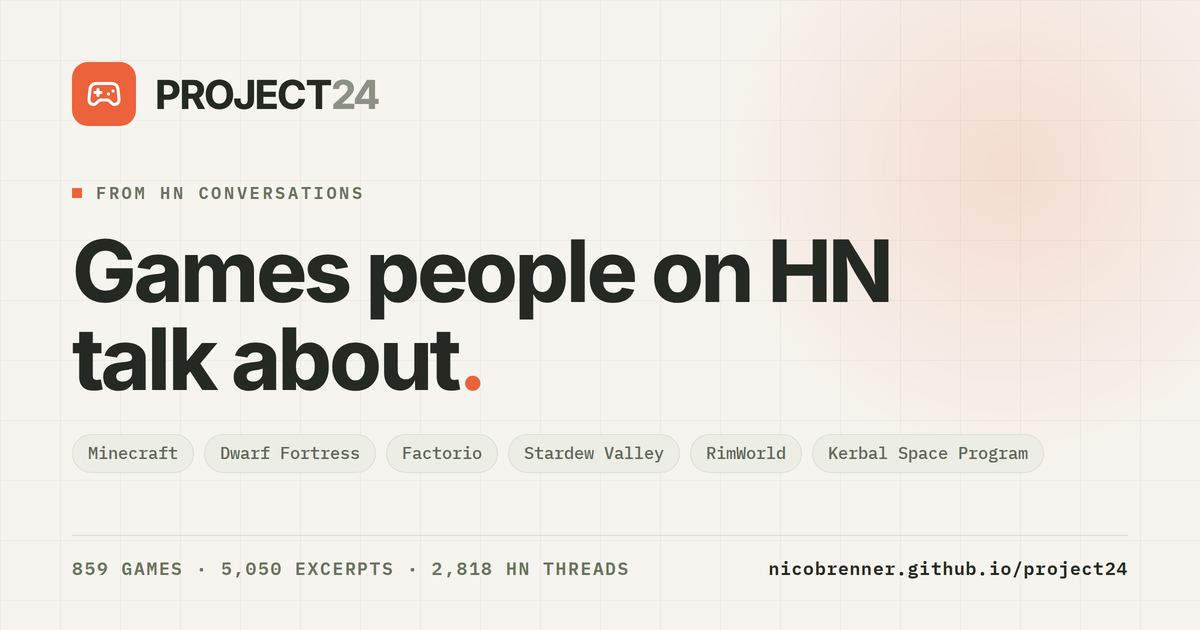
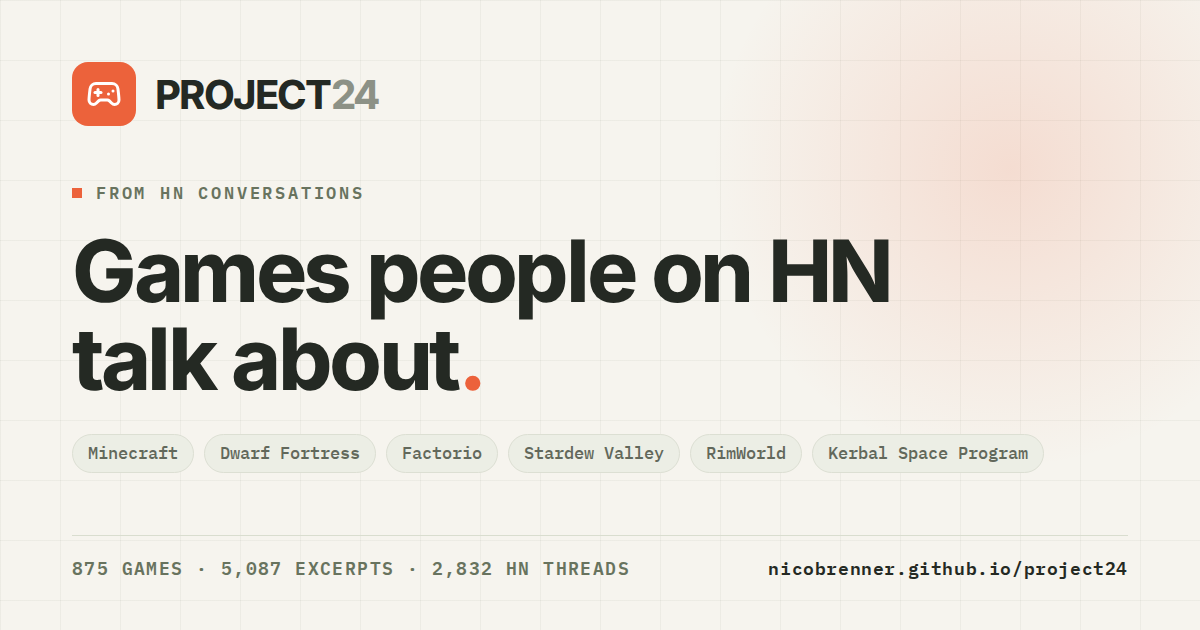
Add a GitHub social preview card and refresh the catalogue counts
GitHub serves an auto-generated card for the repository link. This replaces it
with one built from the site's own palette, in .github/social-preview.png, with
its HTML source beside the site card's so both can be re-rendered.

The site card's footer still claimed 859 games. The catalogue is at 875 games,
5,087 excerpts and 2,832 HN threads, so both cards now say that.

diff --git a/scripts/og-github-template.html b/scripts/og-github-template.html
@@ -1,0 +1,138 @@
+<!--
+  Source for .github/social-preview.png, the 1280x640 image GitHub serves as the
+  repository's og:image. Same palette and furniture as scripts/og-template.html, which
+  is the site's own 1200x630 preview, but this one talks about the repository: the data,
+  the stack, the licence. Render with any headless browser:
+
+    chromium --headless --window-size=1280,640 --screenshot=.github/social-preview.png \
+             --hide-scrollbars scripts/og-github-template.html
+
+  GitHub only accepts this image through Settings -> General -> Social preview, so it is
+  kept in the repository as the source of truth for whatever is uploaded there.
+  The counts are a snapshot of catalog.json. Refresh them here and re-render when stale.
+-->
+<!doctype html>
+<html lang="en">
+<head>
+<meta charset="utf-8">
+<link rel="preconnect" href="https://fonts.googleapis.com">
+<link rel="preconnect" href="https://fonts.gstatic.com" crossorigin>
+<link href="https://fonts.googleapis.com/css2?family=Inter:wght@400;500;600;750&family=IBM+Plex+Mono:wght@500;600&display=swap" rel="stylesheet">
+<style>
+  * { box-sizing: border-box; margin: 0; padding: 0; }
+  html, body { width: 1280px; height: 640px; }
+  body {
+    background: #f6f4ee;
+    color: #242923;
+    font-family: Inter, "Helvetica Neue", Arial, sans-serif;
+    -webkit-font-smoothing: antialiased;
+    position: relative;
+    overflow: hidden;
+  }
+  /* the faint grid from the spotlight panel, at very low contrast */
+  .grid {
+    position: absolute; inset: 0;
+    background-image:
+      linear-gradient(to right, rgba(109,119,100,.07) 1px, transparent 1px),
+      linear-gradient(to bottom, rgba(109,119,100,.07) 1px, transparent 1px);
+    background-size: 60px 60px;
+  }
+  .glow {
+    position: absolute; right: -130px; top: -150px;
+    width: 640px; height: 640px; border-radius: 50%;
+    background: radial-gradient(circle, rgba(236,98,59,.16), rgba(236,98,59,0) 68%);
+  }
+  .frame {
+    position: relative; height: 100%;
+    padding: 56px 74px 50px;
+    display: flex; flex-direction: column; justify-content: space-between;
+  }
+  .top { display: flex; align-items: center; justify-content: space-between; }
+  .brand { display: flex; align-items: center; font-size: 38px; font-weight: 750; letter-spacing: -1.5px; }
+  .brand-icon {
+    width: 60px; height: 60px; display: grid; place-items: center;
+    background: #ec623b; color: #fff; border-radius: 15px; margin-right: 18px;
+  }
+  .brand .muted { color: #8c9186; }
+  .repo {
+    font: 600 17px/1 "IBM Plex Mono", monospace;
+    color: #62685b; background: #eceee5; border: 1px solid #dcdfd3;
+    border-radius: 999px; padding: 12px 18px; letter-spacing: .2px;
+  }
+  .eyebrow {
+    font: 600 16px/1.6 "IBM Plex Mono", monospace;
+    letter-spacing: 2.6px; color: #68735e; text-transform: uppercase;
+    display: flex; align-items: center; gap: 13px; margin-bottom: 18px;
+  }
+  .tiny-square { width: 10px; height: 10px; background: #ec623b; }
+  h1 {
+    font-size: 78px; font-weight: 750; letter-spacing: -3.1px; line-height: 1.02;
+    max-width: 930px;
+  }
+  h1 .dot { color: #ec623b; }
+  .sub {
+    margin-top: 22px; font-size: 25px; line-height: 1.38; font-weight: 400;
+    color: #4d5349; max-width: 940px;
+  }
+  .sub b { font-weight: 600; color: #242923; }
+  .titles {
+    margin-top: 26px; display: flex; flex-wrap: wrap; gap: 10px; max-width: 1090px;
+    max-height: 44px; overflow: hidden;
+  }
+  .titles span {
+    font: 500 16px/1 "IBM Plex Mono", monospace;
+    color: #62685b; background: #eceee5; border: 1px solid #dcdfd3;
+    border-radius: 999px; padding: 10px 14px;
+  }
+  footer {
+    border-top: 1px solid #d9ddcf; padding-top: 20px;
+    display: flex; align-items: baseline; justify-content: space-between;
+    font: 600 17px/1 "IBM Plex Mono", monospace; letter-spacing: 1.3px;
+    color: #68735e; text-transform: uppercase;
+  }
+  footer .url { color: #242923; letter-spacing: .5px; text-transform: none; }
+</style>
+</head>
+<body>
+  <div class="grid"></div>
+  <div class="glow"></div>
+  <div class="frame">
+    <div class="top">
+      <div class="brand">
+        <span class="brand-icon">
+          <svg width="34" height="34" viewBox="0 0 24 24" fill="none" stroke="currentColor"
+               stroke-width="2" stroke-linecap="round" stroke-linejoin="round">
+            <line x1="6" x2="10" y1="11" y2="11"/>
+            <line x1="8" x2="8" y1="9" y2="13"/>
+            <line x1="15" x2="15.01" y1="12" y2="12"/>
+            <line x1="18" x2="18.01" y1="10" y2="10"/>
+            <path d="M17.32 5H6.68a4 4 0 0 0-3.978 3.59c-.006.052-.01.101-.017.152C2.604 9.416 2 14.456 2 16a3 3 0 0 0 3 3c1 0 1.5-.5 2-1l1.414-1.414A2 2 0 0 1 9.828 16h4.344a2 2 0 0 1 1.414.586L17 18c.5.5 1 1 2 1a3 3 0 0 0 3-3c0-1.545-.604-6.584-.685-7.258-.007-.05-.011-.1-.017-.151A4 4 0 0 0 17.32 5z"/>
+          </svg>
+        </span>
+        PROJECT<span class="muted">24</span>
+      </div>
+      <div class="repo">nicobrenner/project24</div>
+    </div>
+
+    <div>
+      <div class="eyebrow"><span class="tiny-square"></span> An open index of HN game talk</div>
+      <h1>Games people on HN talk about<span class="dot">.</span></h1>
+      <div class="sub">
+        <b>875 games</b> and <b>5,087 source excerpts</b>, each one linked back to the
+        Hacker News comment it came from
+      </div>
+      <div class="titles">
+        <span>Minecraft</span><span>Dwarf Fortress</span><span>Factorio</span>
+        <span>Stardew Valley</span><span>RimWorld</span><span>Kerbal Space Program</span>
+        <span>Universal Paperclips</span><span>NetHack</span><span>Disco Elysium</span>
+        <span>Opus Magnum</span><span>Into the Breach</span><span>Baba Is You</span>
+      </div>
+    </div>
+
+    <footer>
+      <span>MIT · React + Vite · Python pipeline · catalog.json</span>
+      <span class="url">nicobrenner.github.io/project24</span>
+    </footer>
+  </div>
+</body>
+</html>

diff --git a/scripts/og-template.html b/scripts/og-template.html
@@ -109,7 +109,7 @@
     </div>
 
     <footer>
-      <span>859 games · 5,050 excerpts · 2,818 HN threads</span>
+      <span>875 games · 5,087 excerpts · 2,832 HN threads</span>
       <span class="url">nicobrenner.github.io/project24</span>
     </footer>
   </div>
